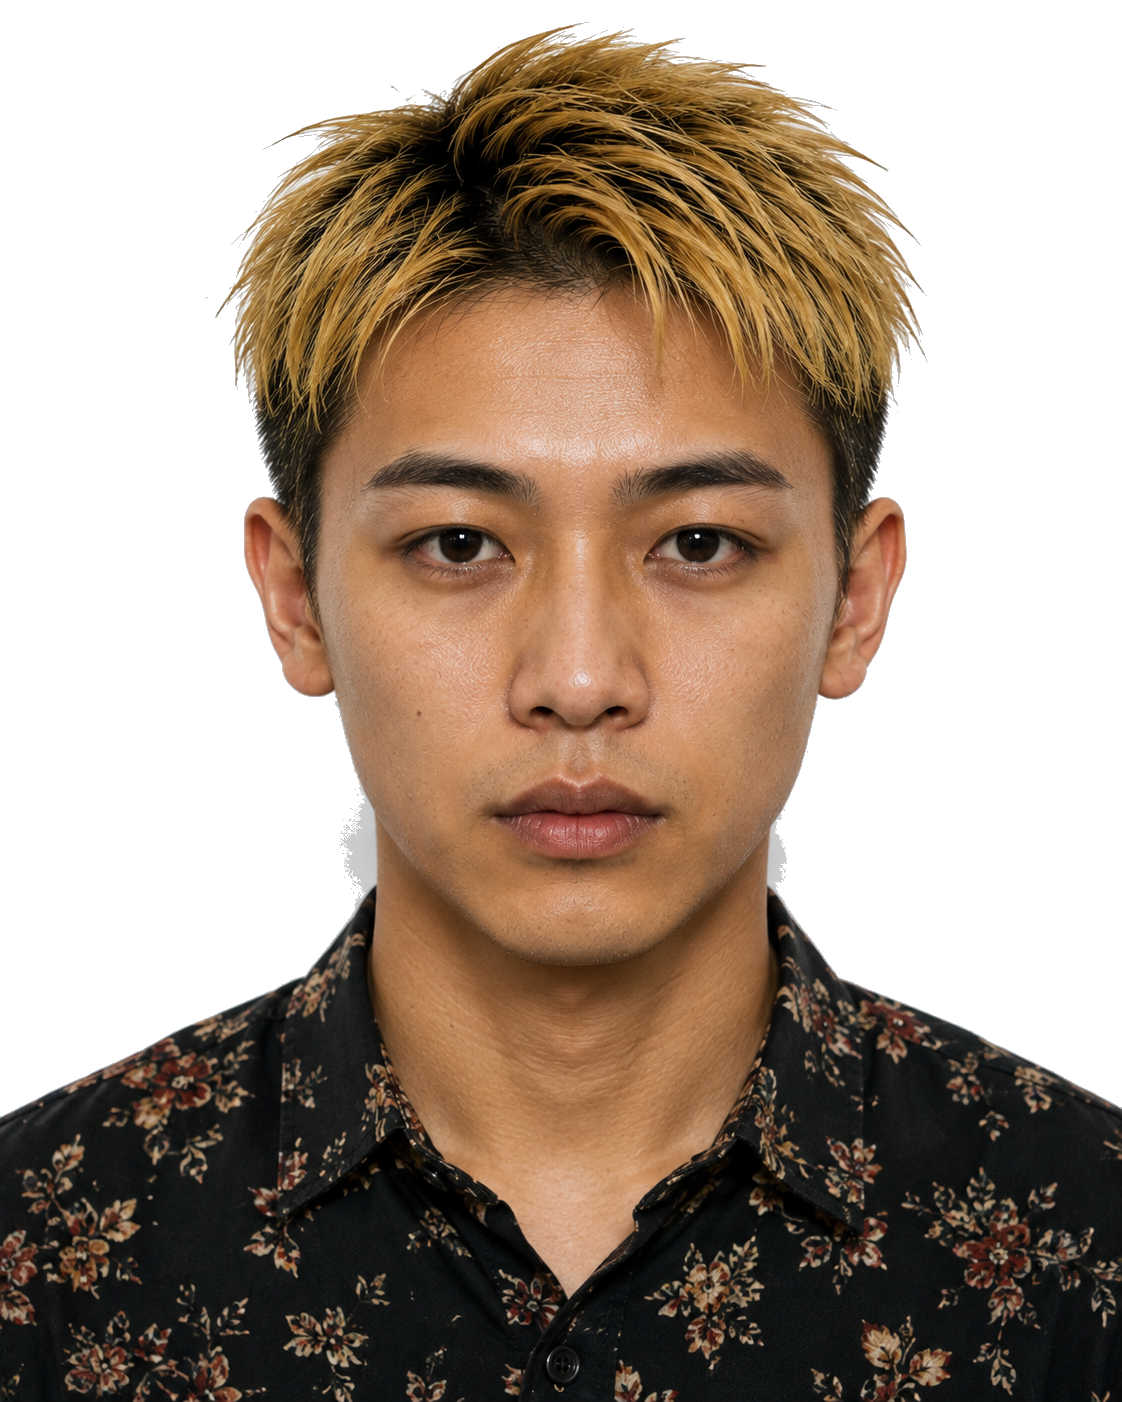
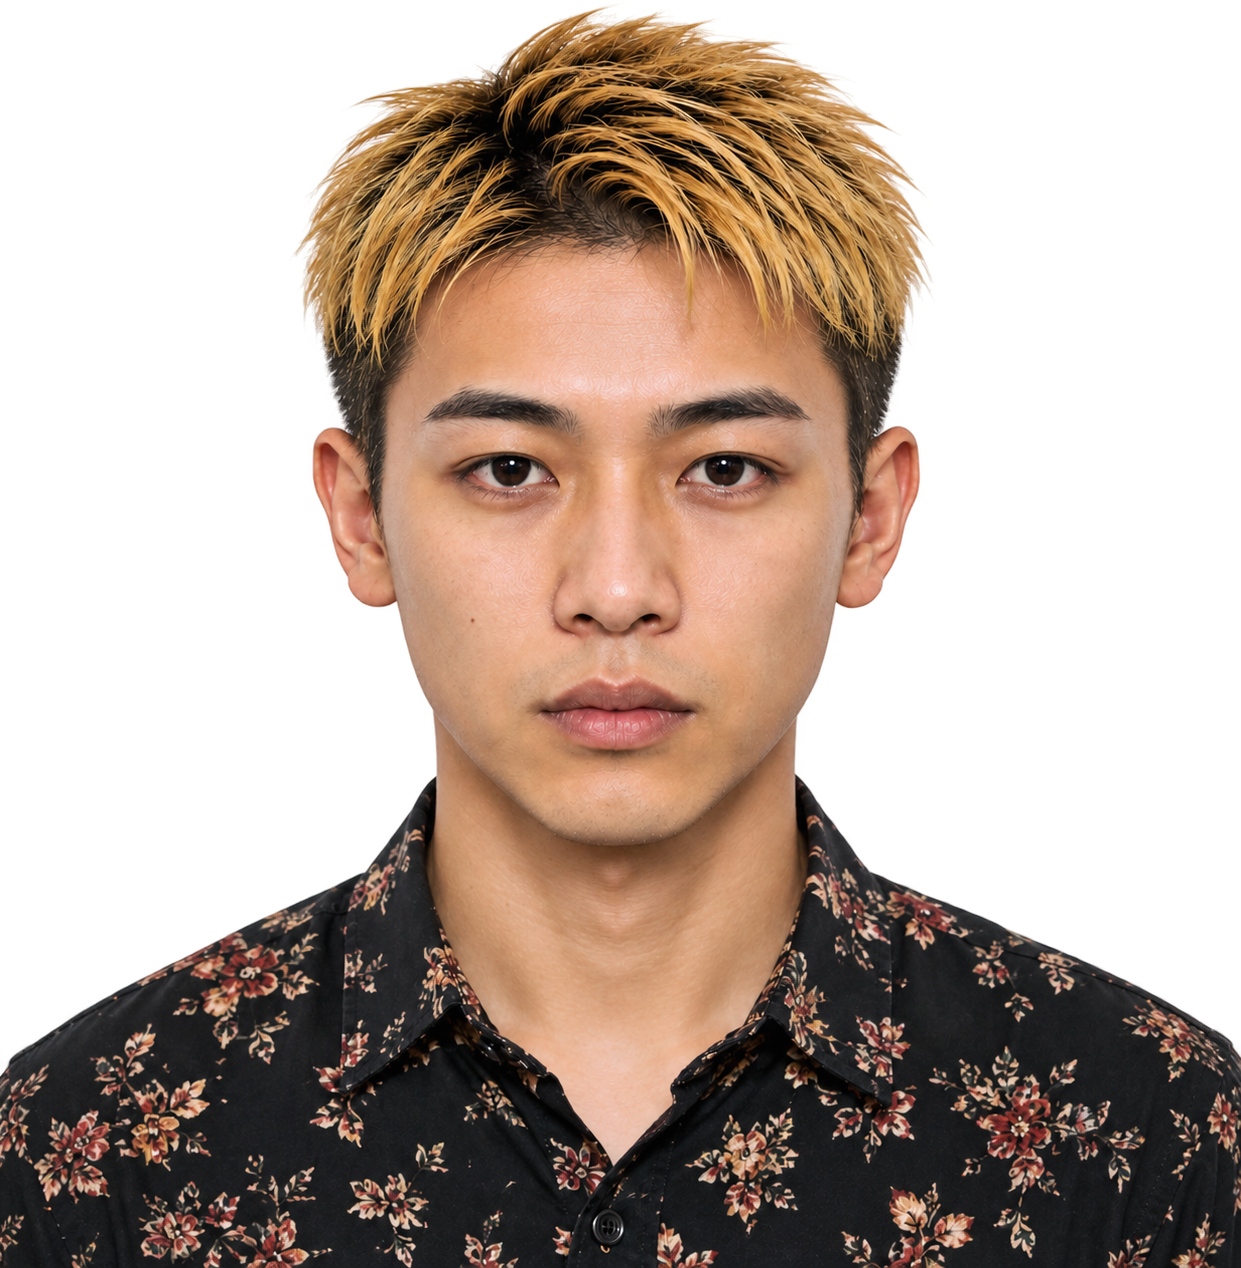
阿源大頭貼換成 kc 去背後的版本,消掉白邊
bump ?v=2 cache-busting query 避免瀏覽器吃到舊快取。

Claude-Session: https://claude.ai/code/session_01KDytCjS5J8dEHdv3WH5DjK

diff --git a/prototypes/game.html b/prototypes/game.html
@@ -1156,7 +1156,7 @@ const PORTRAIT_IMGS = {
   worker: loadPortraitImg('../assets/bg/worker-portrait.png?v=2'),
   acheng: loadPortraitImg('../assets/bg/acheng-portrait.png?v=2'),
   ayi:    loadPortraitImg('../assets/bg/ayi-portrait.png?v=1'),
-  yuan:   loadPortraitImg('../assets/bg/yuan-portrait.png?v=1'),
+  yuan:   loadPortraitImg('../assets/bg/yuan-portrait.png?v=2'),
   /* 學校三人(2026-08-24)——先試過拿 3D 模型近拍當大頭貼,kc 抓到「沒有
      眼球」(骨架轉檔時原廠臉部貼圖被剝掉,只剩 Eyelashes 那個獨立 mesh,
      見跟 kc 的對話紀錄),改回跟店員/爸媽同一套 AI 生真人照片。阿仁刻意
